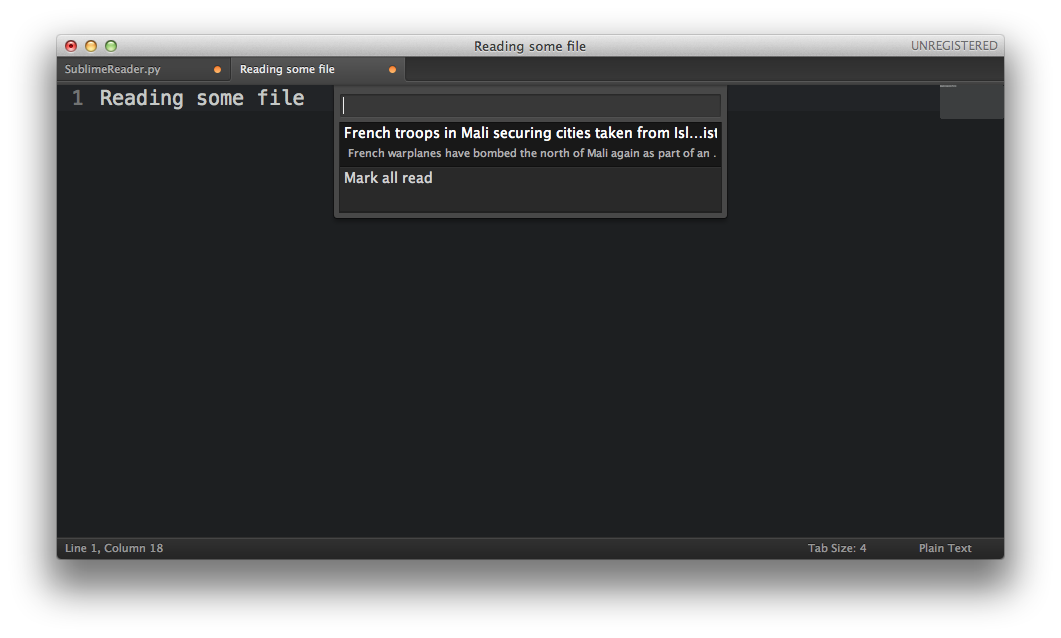
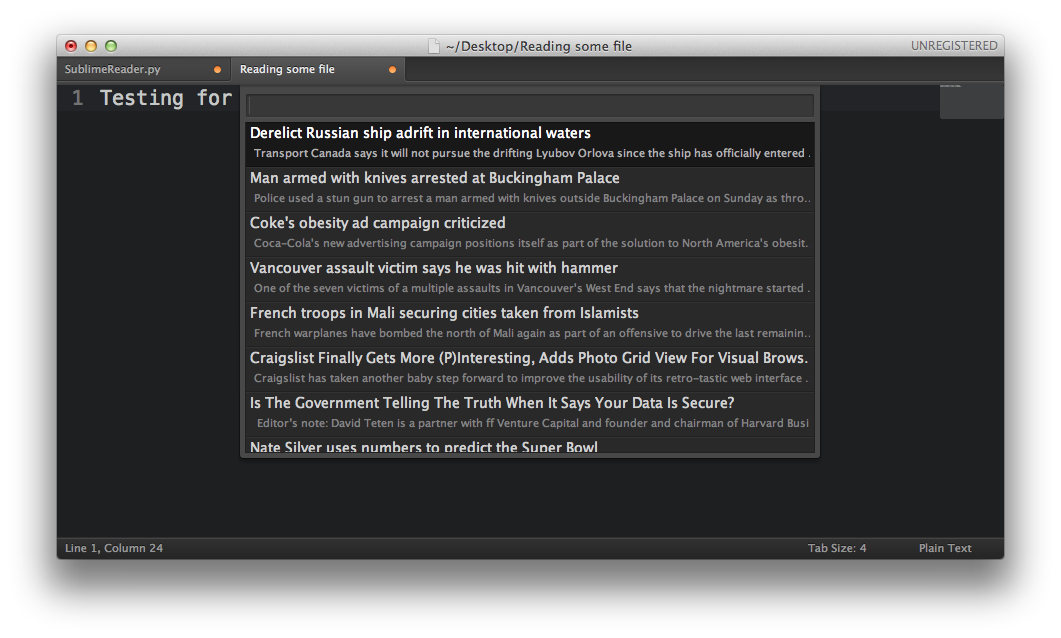
updated readme
added new image with more items and fixed typos

diff --git a/readme.md b/readme.md
@@ -4,11 +4,11 @@ A Google reader plugin for Sublime Text 2.  Check your news without leaving your
 ![intro](images/intro.png)
 ##Installation
 ###Sublime Package Control
-If you are using [Sublime Package Control](http://wbond.net/sublime_packages/package_control) you can simple install Sublime Reader by searching for `Google Reader` in the package listing.
+If you are using [Sublime Package Control](http://wbond.net/sublime_packages/package_control) you can simply install Sublime Reader by searching for `Google Reader` in the package listing.
 ###Manual Install
 Download Sublime Reader from [here](https://github.com/speg/SublimeGReader/archive/master.zip) and place the entire `SublimeGReader` directory into your `Packages` directory.
 ##Setting Up
-After you install Sublime Reader you will need to provide your Google Reader credentials for authentication.  You can manually enter them in the `SublimeReader.sublime-settings` file (which you should copy to your `User` directory if you don't want it to be reset when the package is updated) or the plugin will prompt you the first time you try to use it.
+After you install Sublime Reader you will need to provide your Google Reader credentials for authentication.  You can manually enter them in the `SublimeReader.sublime-settings` file (which you should copy to your `User` directory if you don't want it to be reset when the package is updated) or the plugin will prompt you the first time you try to use it:
 ![login](images/login.png)
 ##Using Sublime Reader
 By default, Sublime Reader will check for new articles everytime you save a file:  
@@ -30,10 +30,10 @@ Sublime Reader has several options to let you customize the plugin to your likin
 ##Credits
 Many thanks go to the following:
 
-* Jon Skinner, author of Sublime Text.  Without him none of this would exist.
+* Jon Skinner, author of Sublime Text.  Without him none of this would exist!
 * Jeffery Way, whose [course](http://net.tutsplus.com/articles/news/perfect-workflow-in-sublime-text-free-course/) convinced me to go all-in with Sublime.
-* Matt Behrens, for creating and maintaining [libgreader](https://github.com/askedrelic/libgreader), the engine which drives this plugin
-* Will Bond, for creating and maintaing the [Sublime Package Control](http://wbond.net/sublime_packages/package_control)
+* Matt Behrens, for creating and maintaining [libgreader](https://github.com/askedrelic/libgreader), the engine which drives this plugin.
+* Will Bond, for creating and maintaing the [Sublime Package Control](http://wbond.net/sublime_packages/package_control).
 
 
 
